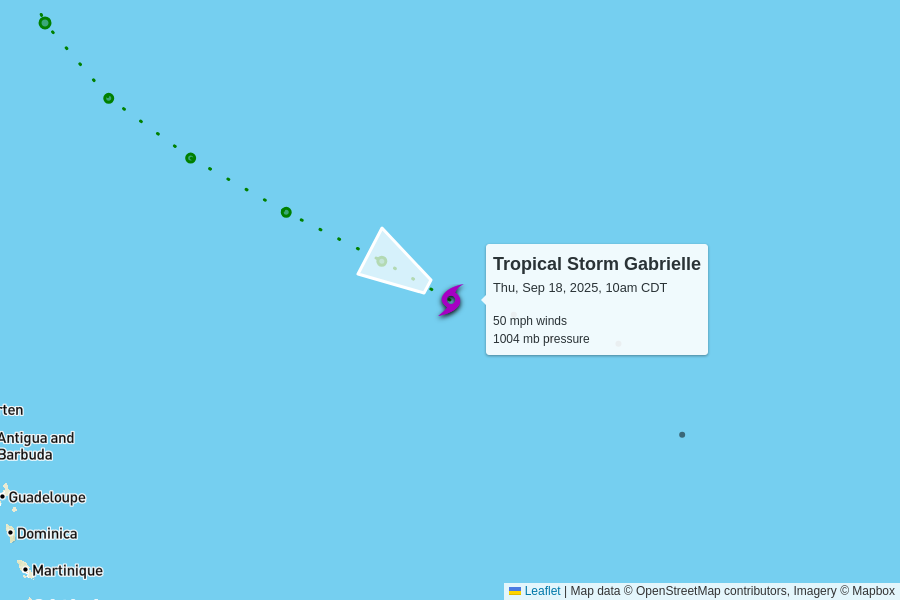
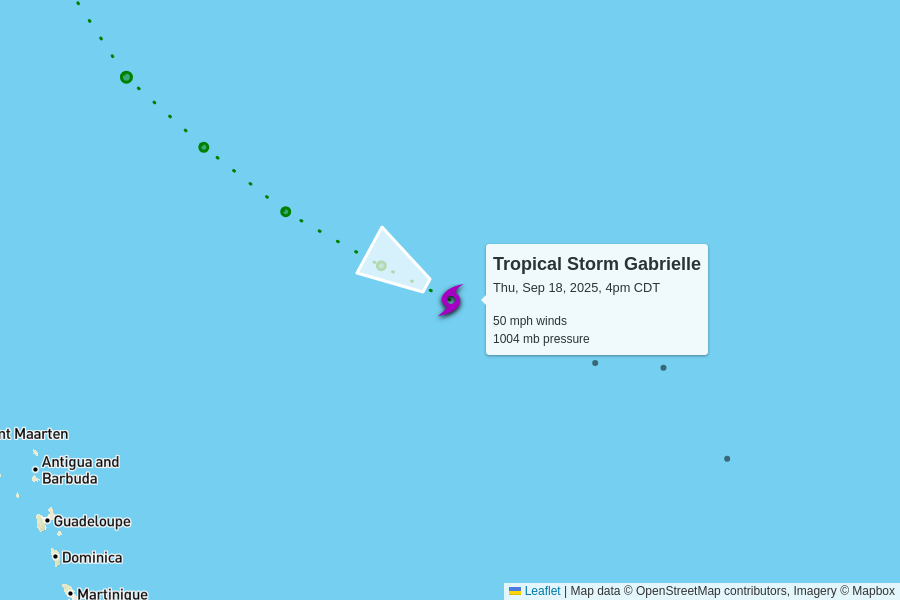
automatic update

diff --git a/docs/index.html b/docs/index.html
@@ -102,7 +102,7 @@
         <td colspan="6" class="storm category-0" >
           <h2>
             Tropical Storm Gabrielle
-            <p class="updated">last updated <span data-time>2025-09-18T15:00:00.000Z</span></p>
+            <p class="updated">last updated <span data-time>2025-09-18T21:00:00.000Z</span></p>
           </h2>
         </td>
       </tr>
@@ -120,7 +120,7 @@
         <td>50 mph<br>0 mph since last update</td>
         <td>1004 mb<br>0 mb since last update</td>
         <td>
-          15 mph to the west-northwest
+          13 mph to the west-northwest
           <br/>
           <span style="display: inline-block; font-size: 1.5em; transform: rotate(300deg);">↑</span>
         </td>
